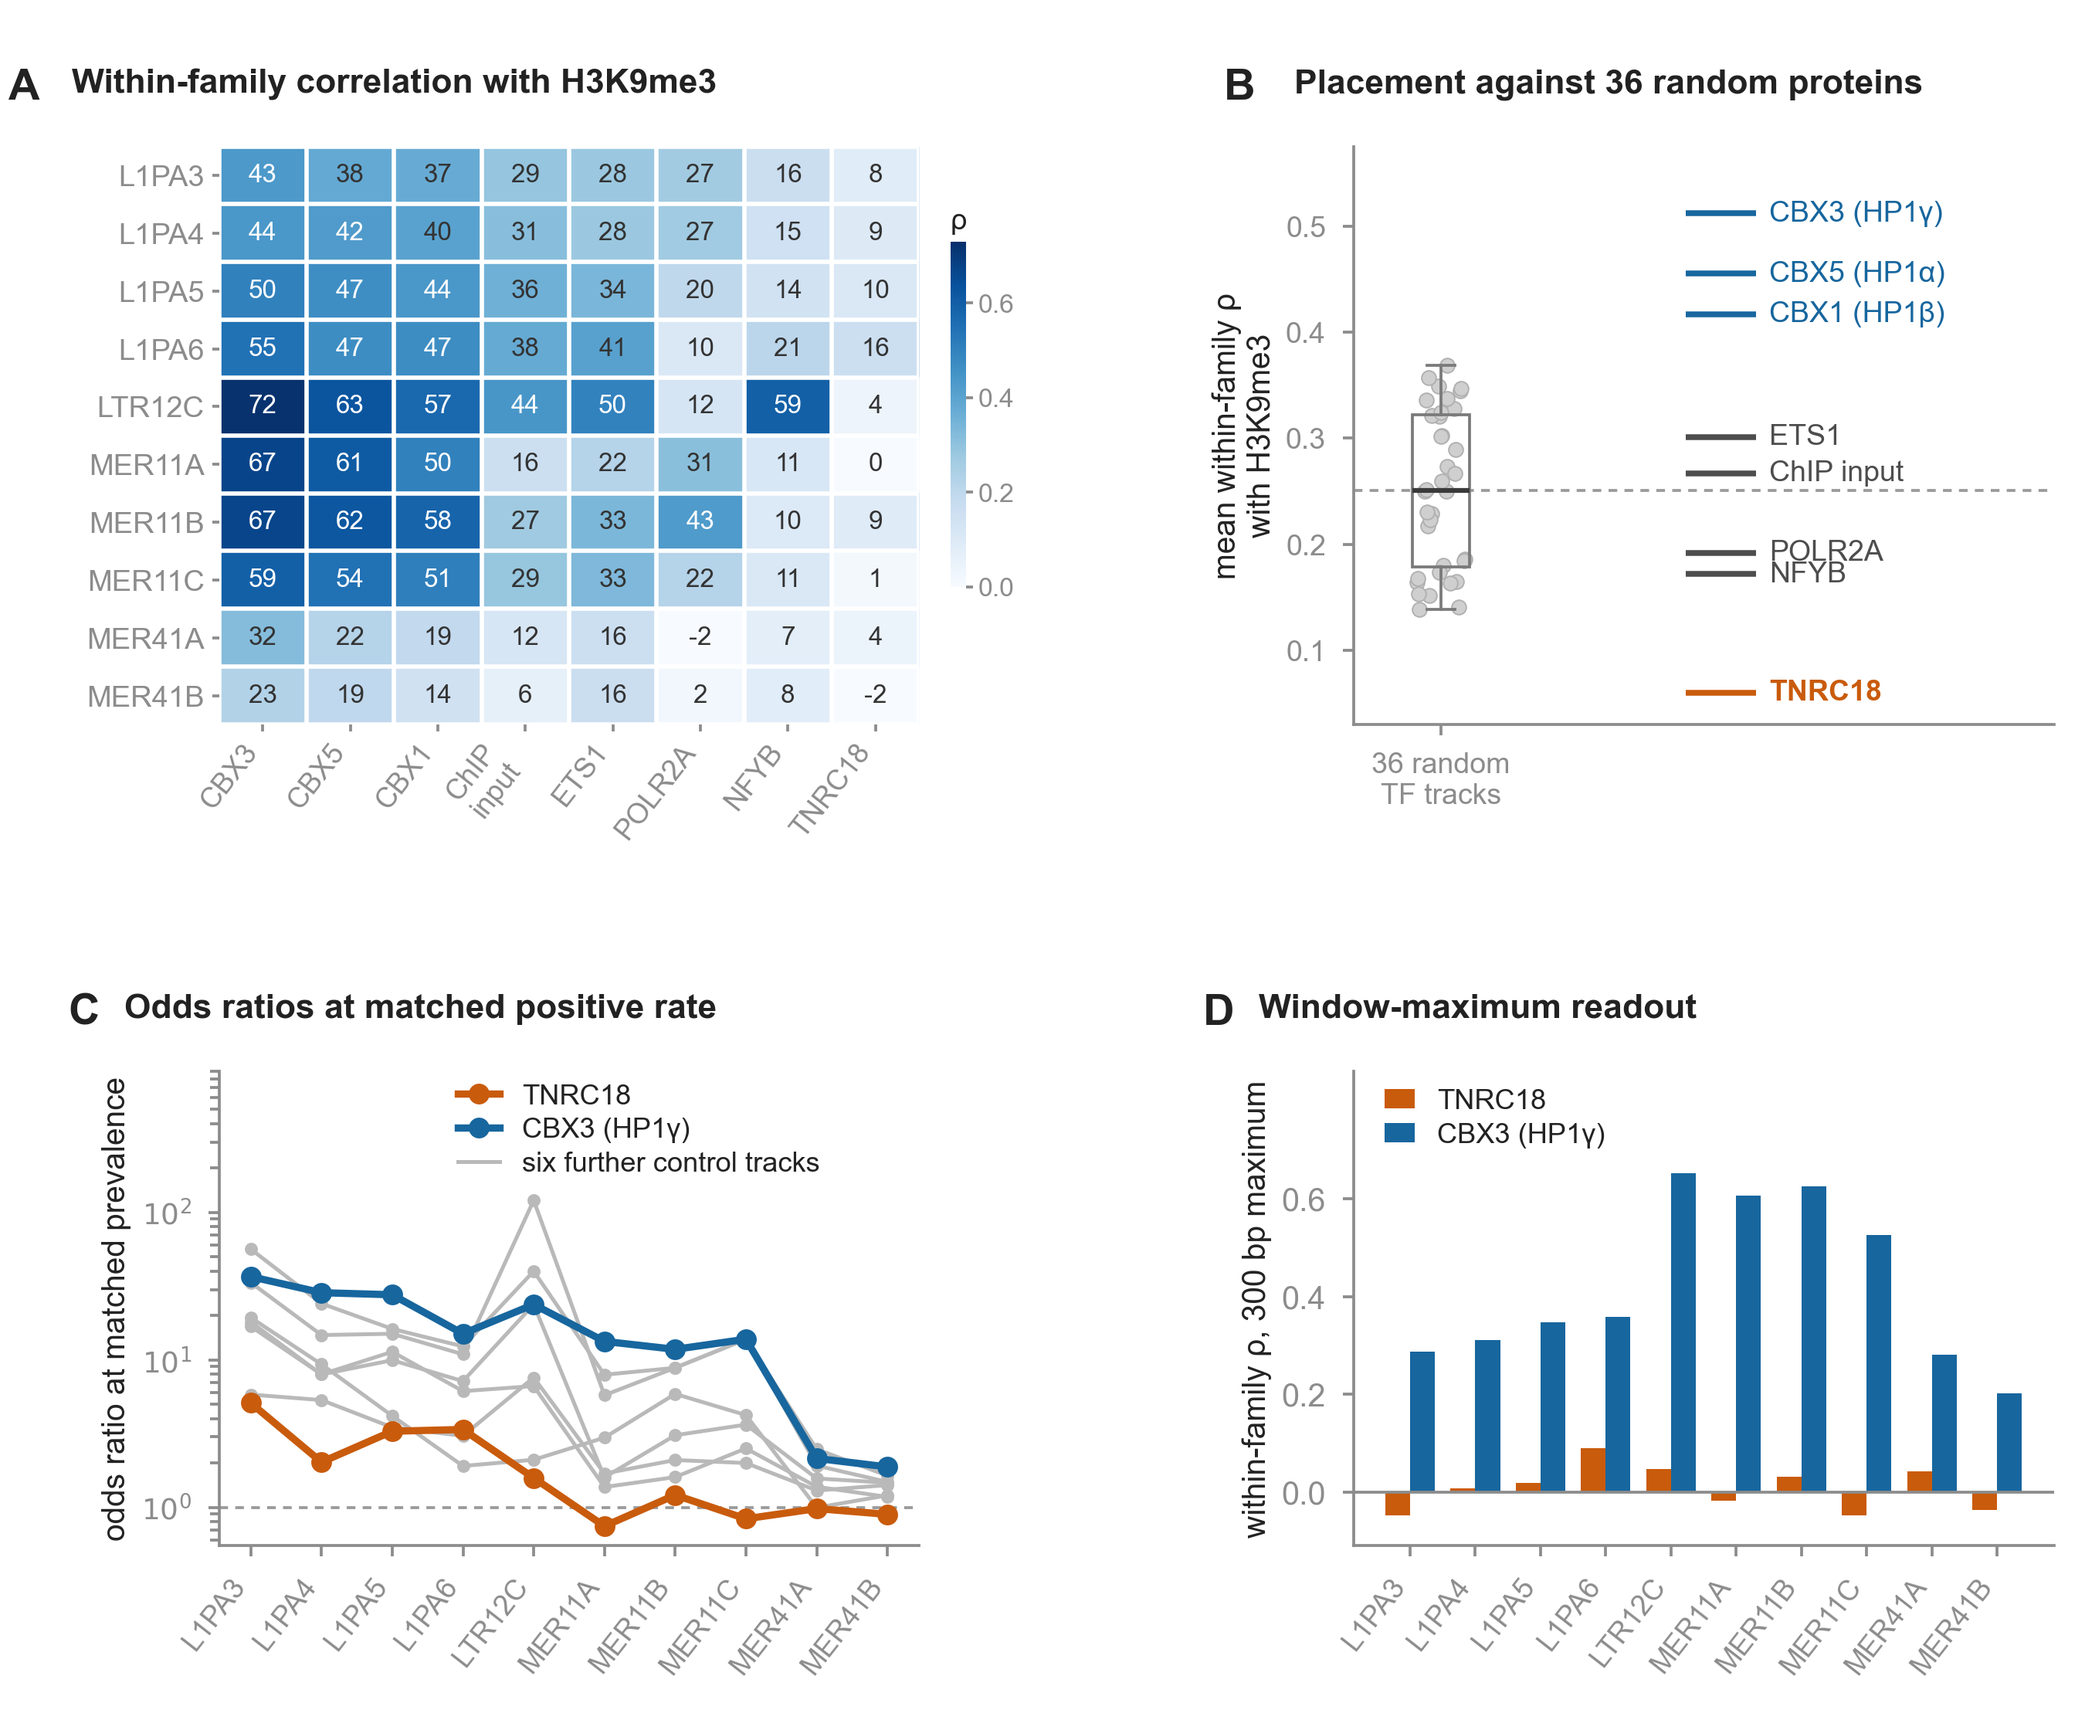
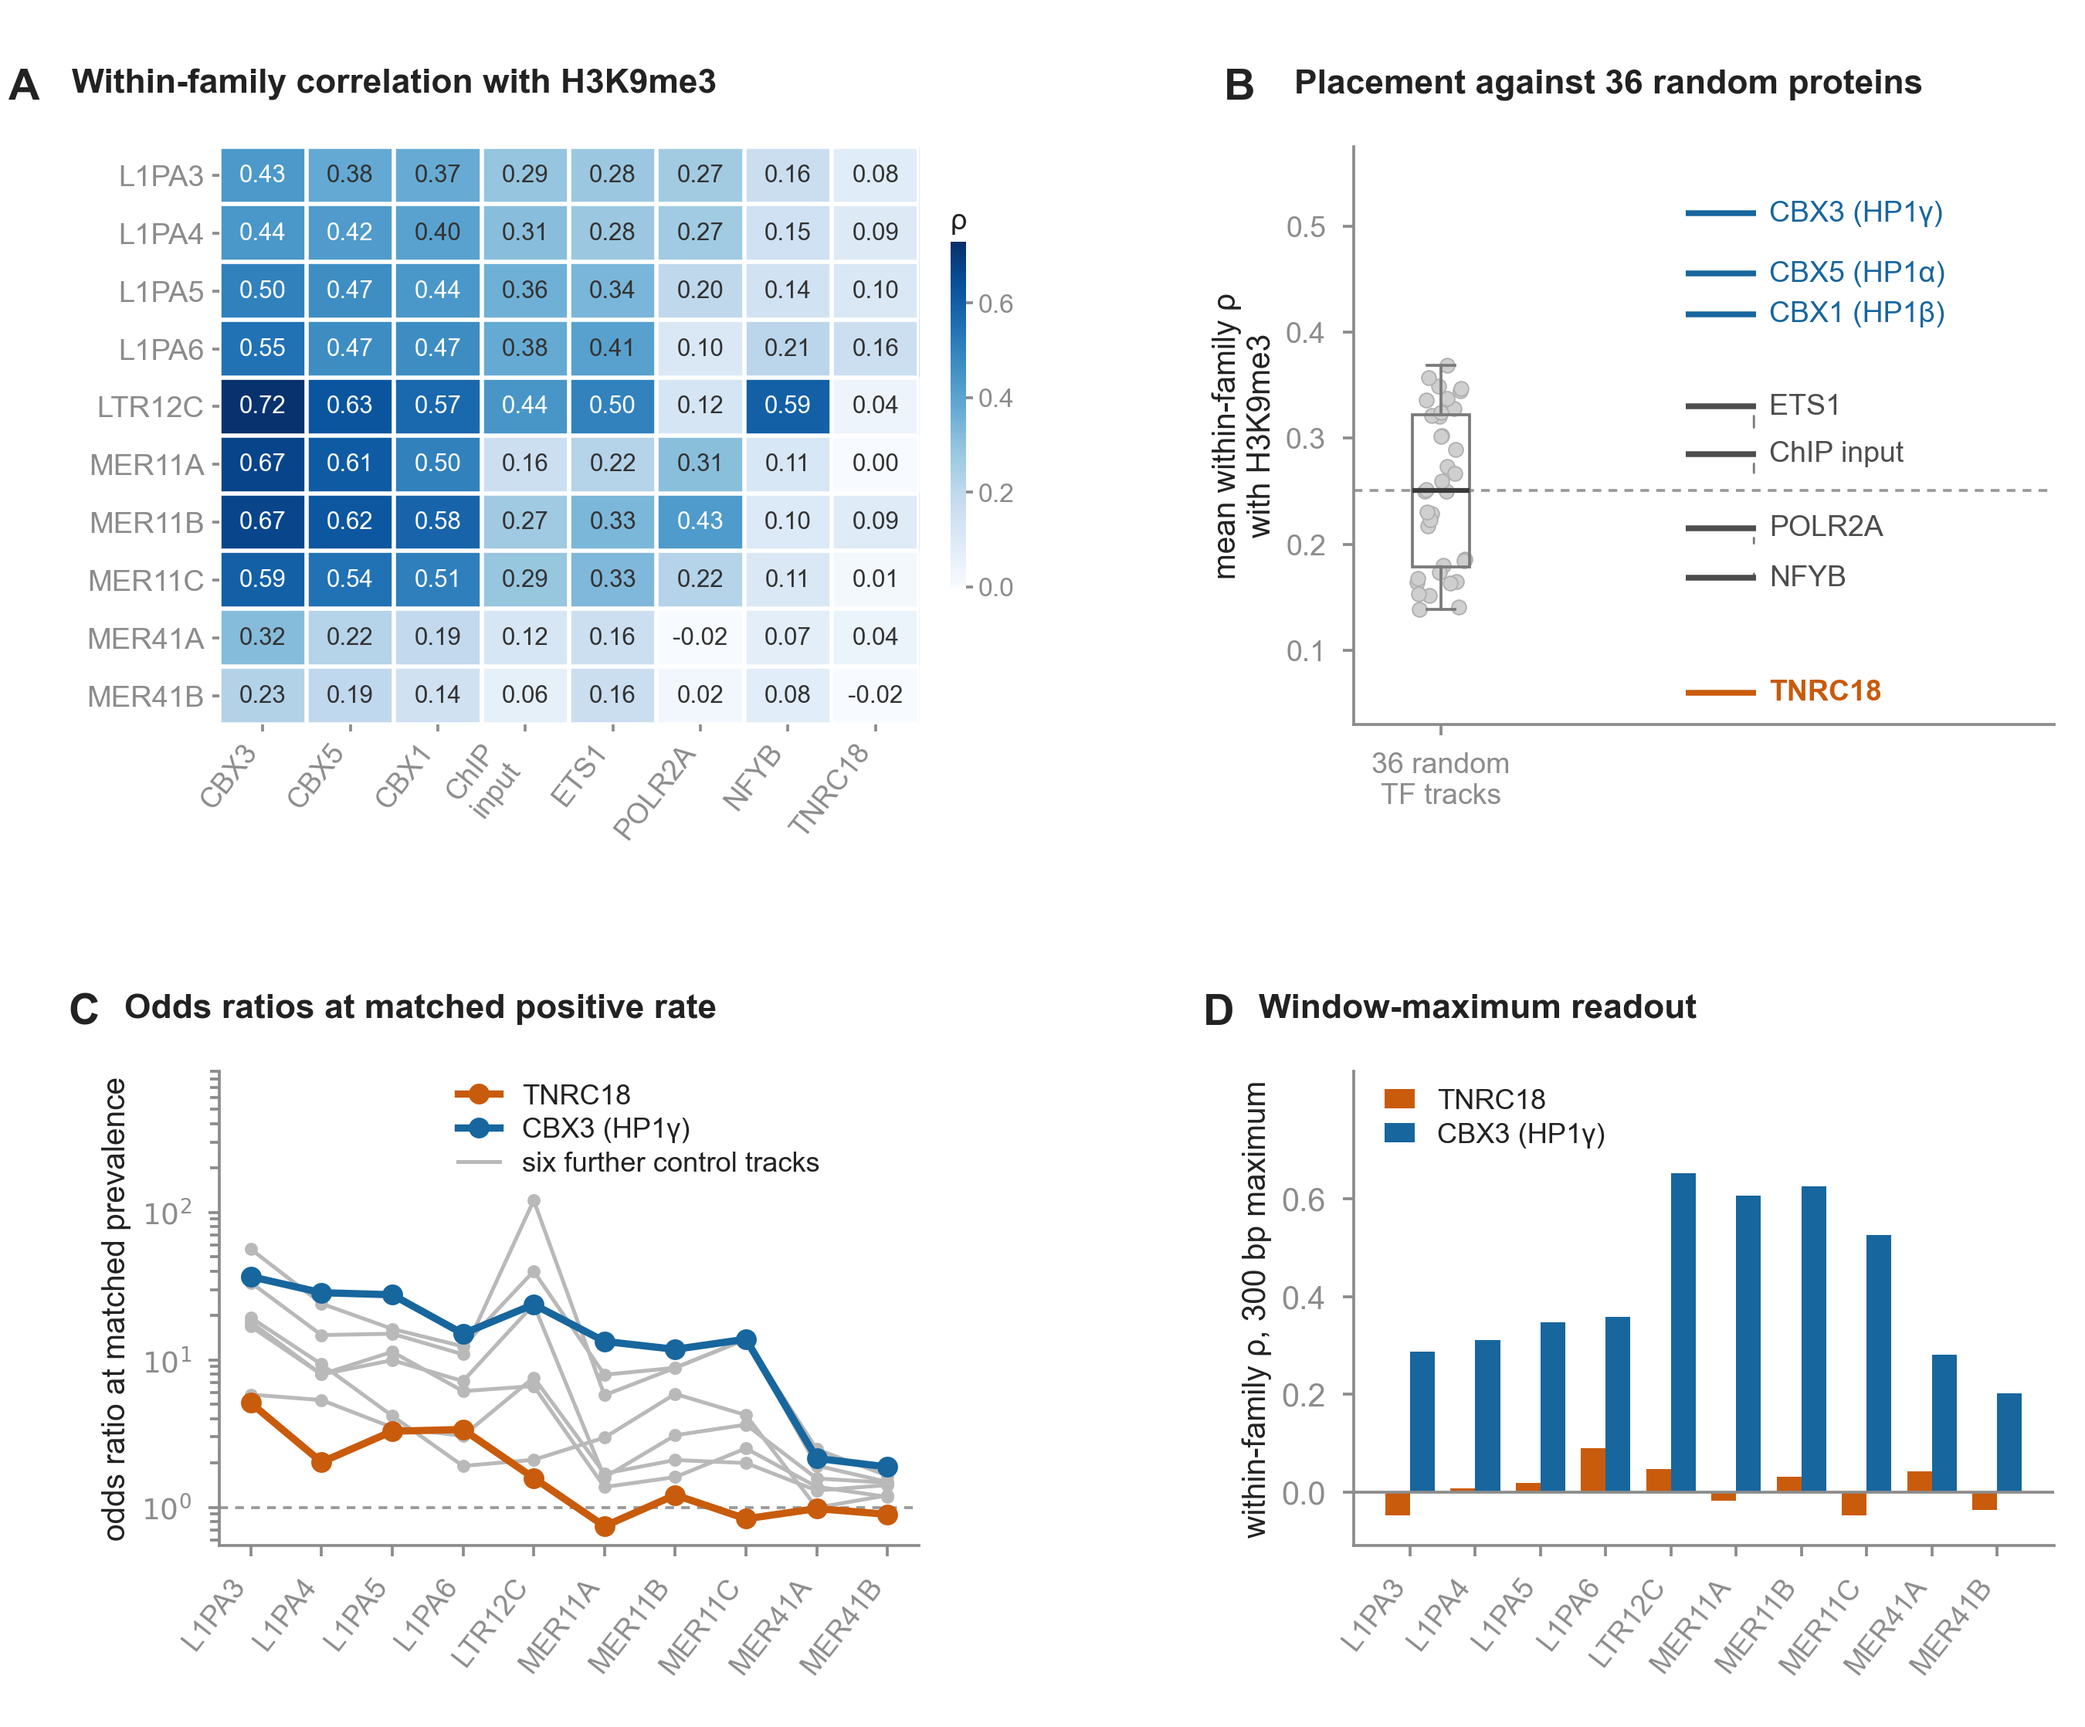
Figure 1 cell values in rho units; Figure 7 panel titles and axis room
Figure 1A printed 100 x rho (43 for 0.43) against a colour bar in rho, and two
labels in 1B overlapped; both fixed. Figure 7 titles are noun phrases and panel C
has room for the value labels. polarity_gc.py output regenerated from the same
run that prints the manuscript values (57.7% -> 92.9%, DNase 98.6% -> 24.0%).

diff --git a/code/fig7.py b/code/fig7.py
@@ -48,7 +48,7 @@ axA.set_xlim(-0.32, 0.16)
 axA.set_xticks([-0.3, -0.15, 0, 0.1])
 axA.set_xlabel("median difference, mutant − WT (log$_2$)", fontsize=6.0, labelpad=1)
 axA.text(-0.32, 1.255, "A", transform=axA.transAxes, fontsize=9, fontweight="bold", va="top")
-axA.text(-0.22, 1.255, "Every contrast has a global offset", transform=axA.transAxes,
+axA.text(-0.22, 1.255, "Global offset of each contrast", transform=axA.transAxes,
          fontsize=7.0, fontweight="bold", va="top")
 axA.text(0.0, -0.30, "bars = 100 kb block bootstrap", transform=axA.transAxes,
          fontsize=5.2, color=DGREY)
@@ -82,7 +82,7 @@ axB.set_yticks([-0.2, 0, 0.5, 1.0])
 axB.legend(loc="upper left", bbox_to_anchor=(-0.03, 1.04), fontsize=5.6, ncol=3,
            handlelength=0.8, borderpad=0.1, columnspacing=0.7, frameon=False)
 axB.text(-0.185, 1.255, "B", transform=axB.transAxes, fontsize=9, fontweight="bold", va="top")
-axB.text(-0.105, 1.255, "The mark moves, the effectors do not",
+axB.text(-0.105, 1.255, "Family-level differences after referencing",
          transform=axB.transAxes, fontsize=7.0, fontweight="bold", va="top")
 
 # ---------------- C knockout, against an unperturbed control ----------------
@@ -111,7 +111,7 @@ axC.axvline(0, color="#4A4A4A", lw=0.7)
 axC.set_yticks(ypos)
 axC.set_yticklabels(f3, fontsize=6.0)
 axC.set_ylim(-0.62, len(f3) - 0.25)
-axC.set_xlim(-1.15, 1.30)
+axC.set_xlim(-1.55, 1.30)
 axC.set_xticks([-1.0, -0.5, 0, 0.5, 1.0])
 axC.set_xlabel("TNRC18 element-over-flank (log$_2$)", fontsize=6.0, labelpad=2)
 axC.legend(loc="lower center", bbox_to_anchor=(0.46, 1.005), fontsize=4.2, ncol=3,

diff --git a/code/fig1.py b/code/fig1.py
@@ -42,7 +42,7 @@ axA.set_yticklabels(FAM, fontsize=6.1)
 for i in range(M.shape[0]):
     for j in range(M.shape[1]):
         v = M[i, j]
-        axA.text(j, i, "%d" % round(v * 100), ha="center", va="center", fontsize=5.3,
+        axA.text(j, i, "%.2f" % v, ha="center", va="center", fontsize=5.0,
                  color="white" if v > 0.42 else "#333333")
 axA.tick_params(length=1.5, pad=1.5)
 for s in axA.spines.values():
@@ -77,8 +77,8 @@ order = [("CBX3", BLUE, "CBX3 (HP1γ)"), ("CBX5", BLUE, "CBX5 (HP1α)"),
          ("CBX1", BLUE, "CBX1 (HP1β)"), ("INPUT", "#4D4D4D", "ChIP input"),
          ("ETS1", "#4D4D4D", "ETS1"), ("POLR2A", "#4D4D4D", "POLR2A"),
          ("NFYB", "#4D4D4D", "NFYB"), ("TNRC18", ORANGE, "TNRC18")]
-lab_y = {"CBX3": 0.512, "CBX5": 0.455, "CBX1": 0.417, "ETS1": 0.301,
-         "INPUT": 0.267, "POLR2A": 0.192, "NFYB": 0.172, "TNRC18": 0.060}
+lab_y = {"CBX3": 0.512, "CBX5": 0.455, "CBX1": 0.417, "ETS1": 0.330,
+         "INPUT": 0.285, "POLR2A": 0.215, "NFYB": 0.168, "TNRC18": 0.060}
 for t, col, lab in order:
     y = foc[KEY[t]]
     yl = lab_y[t]
